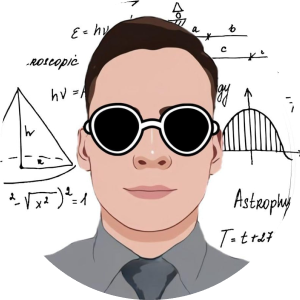
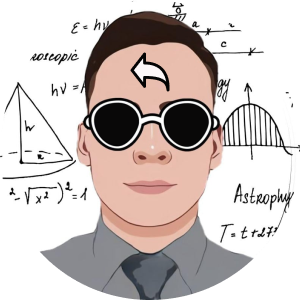
Navigation done! :D

diff --git a/src/Components/About/About.js b/src/Components/About/About.js
@@ -10,11 +10,12 @@ class About extends React.Component {
                 { name: 'HTML', percentage: 80 },
                 { name: 'CSS', percentage: 80 },
                 { name: 'JavaScript', percentage: 50 },
+                { name: 'TypeScript', percentage: 35 },
                 { name: 'Angular', percentage: 25 },
                 { name: 'ReactJS', percentage: 25 },
+                { name: 'NestJS', percentage: 20 },
                 { name: 'Git', percentage: 25 },
                 { name: 'Figma', percentage: 50 },
-                { name: 'NestJS', percentage: 20 },
                 { name: 'Blender', percentage: 25 }
             ]
         }
@@ -28,16 +29,40 @@ class About extends React.Component {
         }));
     }
 
+    scrollUp() {
+        let scrollAmount = 0;
+        let moveID = setInterval(() => {
+            document.getElementById('Biggest-content-div').scrollTop -= 5;
+            scrollAmount += 5;
+            console.log(moveID);
+            if (scrollAmount >= 435) {
+                clearInterval(moveID);
+            }
+        }, 1);
+    }
+
+    scrollDown() {
+        let scrollAmount = 0;
+        let moveID = setInterval(() => {
+            document.getElementById('Biggest-content-div').scrollTop += 5;
+            scrollAmount += 5;
+            console.log(moveID);
+            if (scrollAmount >= 435) {
+                clearInterval(moveID);
+            }
+        }, 1);
+    }
+
     render() {
         return (
-            <div className="All-about">
+            <div id="About-item" className="All-about">
                 <div className='Stretcher'>
                     <h1>O MNĚ</h1>
                     <div className="Blue-rectangle">
-                        <div className="Arrow-up" style={{display: this.state.textOrSkill ? 'none' : 'block'}}></div>
+                        <div onClick={this.scrollUp} className="Arrow-up" style={{ display: this.state.textOrSkill ? 'none' : 'block' }}></div>
                         <Circle onClick={this.toggleTextOrSkill} textOrSkill={this.state.textOrSkill} />
                         <Content skillSet={this.state.skillSet} textOrSkill={this.state.textOrSkill} />
-                        <div className="Arrow-down" style={{display: this.state.textOrSkill ? 'none' : 'block'}}></div>
+                        <div onClick={this.scrollDown} className="Arrow-down" style={{ display: this.state.textOrSkill ? 'none' : 'block' }}></div>
                     </div>
                 </div>
             </div>
@@ -79,8 +104,10 @@ class Circle extends React.Component {
 class Content extends React.Component {
     toggleContent() {
         const contentText = (
-            <div style={{ fontWeight: 700, width: 80 + '%', height: 80 + '%', margin: 'auto auto auto 190px',
-            display: 'flex', flexDirection: 'column', justifyContent: 'center'}}>
+            <div style={{
+                fontWeight: 700, width: 80 + '%', height: 80 + '%', margin: 'auto auto auto 190px',
+                display: 'flex', flexDirection: 'column', justifyContent: 'center'
+            }}>
                 <p>Jsem začínající programátor. Baví mě jak kód, tak design.
                     Naplňuje mě vidět, jak se z ničeho tvoří něco, co ještě k tomu dává smysl a dobře to vypadá.<br></br>
                     Zaměřuji se na webové stránky a webové aplikace.
@@ -104,7 +131,7 @@ class Content extends React.Component {
 
     render() {
         return (
-            <div className="Biggest-content-div">
+            <div id="Biggest-content-div">
                 {this.toggleContent()}
             </div>
         )
@@ -117,7 +144,7 @@ class Skill extends React.Component {
             <div className="Skill">
                 <p>{this.props.name}</p>
                 <div className="Skill-bar">
-                    <div className="Skill-inner-bar" style={{width: this.props.percentage + '%', animationDuration: (this.props.percentage / 75) + 's'}}></div>
+                    <div className="Skill-inner-bar" style={{ width: this.props.percentage + '%', animationDuration: (this.props.percentage / 75) + 's' }}></div>
                 </div>
             </div>
         )

diff --git a/src/Components/Nav/Nav.js b/src/Components/Nav/Nav.js
@@ -2,14 +2,37 @@ import React from 'react';
 import './Nav.css';
 
 class Nav extends React.Component {
+    scrollTo(e) {
+        switch (e.target.innerText) {
+            case 'DOMŮ':
+                document.getElementById('Home-item').scrollIntoView({ behavior: 'smooth', block: 'start' });
+                break;
+            case 'O MNĚ':
+                document.getElementById('About-item').scrollIntoView({ behavior: 'smooth', block: 'start' });
+                break;
+            case 'PORTFOLIO':
+                document.getElementById('Portfolio-item').scrollIntoView({ behavior: 'smooth', block: 'start' });
+                break;
+            case 'KONTAKT':
+                document.getElementById('Contact-item').scrollIntoView({ behavior: 'smooth', block: 'start' });
+                break;
+            default:
+                break;
+        }
+    }
+
+    scrollToHome() {
+        document.getElementById('Home-item').scrollIntoView({ behavior: 'smooth', block: 'start' });
+    }
+
     render() {
         return (
             <nav className="All-nav">
-                <div className="LOGO"></div>
-                <li>DOMŮ</li>
-                <li>O MNĚ</li>
-                <li>PORTFOLIO</li>
-                <li>KONTAKT</li>
+                <div onClick={this.scrollToHome} className="LOGO"></div>
+                <li onClick={this.scrollTo}>DOMŮ</li>
+                <li onClick={this.scrollTo}>O MNĚ</li>
+                <li onClick={this.scrollTo}>PORTFOLIO</li>
+                <li onClick={this.scrollTo}>KONTAKT</li>
             </nav>
         )
     }

diff --git a/src/Components/Home/Home.js b/src/Components/Home/Home.js
@@ -2,14 +2,16 @@ import React from 'react';
 import './Home.css';
 
 class Home extends React.Component {
+    scrollToPortfolio() {
+        document.getElementById('Portfolio-item').scrollIntoView({ behavior: 'smooth', block: 'start' });
+    }
+
     render() {
         return (
-            <div className="All-home">
+            <div id="Home-item" className="All-home">
                 <h1>Ahoj, jmenuji se <span>Robert Dominguez</span>.<br></br>
                     Níže se můžeš podívat na moji práci.</h1>
-                <form action="/online-courses/">
-                    <button type="submit" className="Big-button">MOJE PRÁCE</button>
-                </form>
+                <button onClick={this.scrollToPortfolio} className="Big-button">MOJE PRÁCE</button>
             </div>
         )
     }

diff --git a/src/Components/Contact/Contact.js b/src/Components/Contact/Contact.js
@@ -4,7 +4,7 @@ import './Contact.css';
 class Contact extends React.Component {
     render() {
         return (
-            <div className="All-contact">
+            <div id="Contact-item" className="All-contact">
                 <div className="Stretcher">
                     <div className="Triangle"></div>
                     <h1>KONTAKT</h1>

diff --git a/src/Components/Portfolio/Portfolio.js b/src/Components/Portfolio/Portfolio.js
@@ -99,7 +99,7 @@ class Portfolio extends React.Component {
 
     render() {
         return (
-            <div className="All-portfolio">
+            <div id="Portfolio-item" className="All-portfolio">
                 <div className="Stretcher">
                     <h1>PORTFOLIO</h1>
                     <div className="Outer-projects-div">

diff --git a/src/Components/About/About.css b/src/Components/About/About.css
@@ -28,7 +28,7 @@
     box-shadow: var(--my-box-shadow);
 }
 
-.All-about .Biggest-content-div {
+.All-about #Biggest-content-div {
     width: 100%;
     height: 87%;
     overflow-y: scroll;
